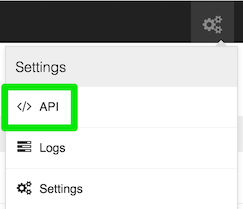
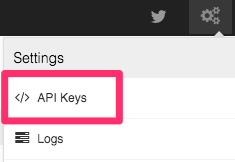
user player.zype.com for player endpoint, simplify keys in config.brs

diff --git a/README.md b/README.md
@@ -6,7 +6,7 @@ This is a boilerplate Rails App using the Zype Platform and Zype Gem.
 
 1. You will need your Zype API and Player keys. You can find these in the [Zype Platform](https://admin.zype.com/) under the 'Settings' and 'Video Apps' menu.
 
-![Alt text](screenshots/settings.png)
+![Find API Key](screenshots/settings.png)
 
 2. Clone the repo
 
@@ -17,17 +17,17 @@ This is a boilerplate Rails App using the Zype Platform and Zype Gem.
 
 4. Update your Zype configuration. Update the config located here under [source/objects/config.brs](source/objects/config.brs), and enter the following values:
 
-  * key: Your Zype API Key
-  * app: Your Zype Player Key
-  * player: Your Zype App Key
+  * key: Your Zype API Read-Only Key
+  * app: Your Roku App Key
 
 5. Build the Roku app
 
   * Run 'make' in your project directory
 
-6. Brand your images. We have supplied sample images with correct dimensions. To customize your images,
-switch the mm_icon, mm_side, and splash screen images that are located in the images
-directory. You will also need to supply a 290 x 218 JPG HD Channel Image and a 214 x 144 SD Channel
+6. Brand images channel. We have supplied sample images with correct dimensions. To customize your images,
+switch the mm_icons, mm_sides, and splash screen images that are located in the images
+directory. You will also need to update the title, subtitle, and splash color in the manifest.
+You will also need to supply a 290 x 218 JPG HD Channel Image and a 214 x 144 SD Channel
 Image when you create your Channel in the Roku Store.
 
 ## License
